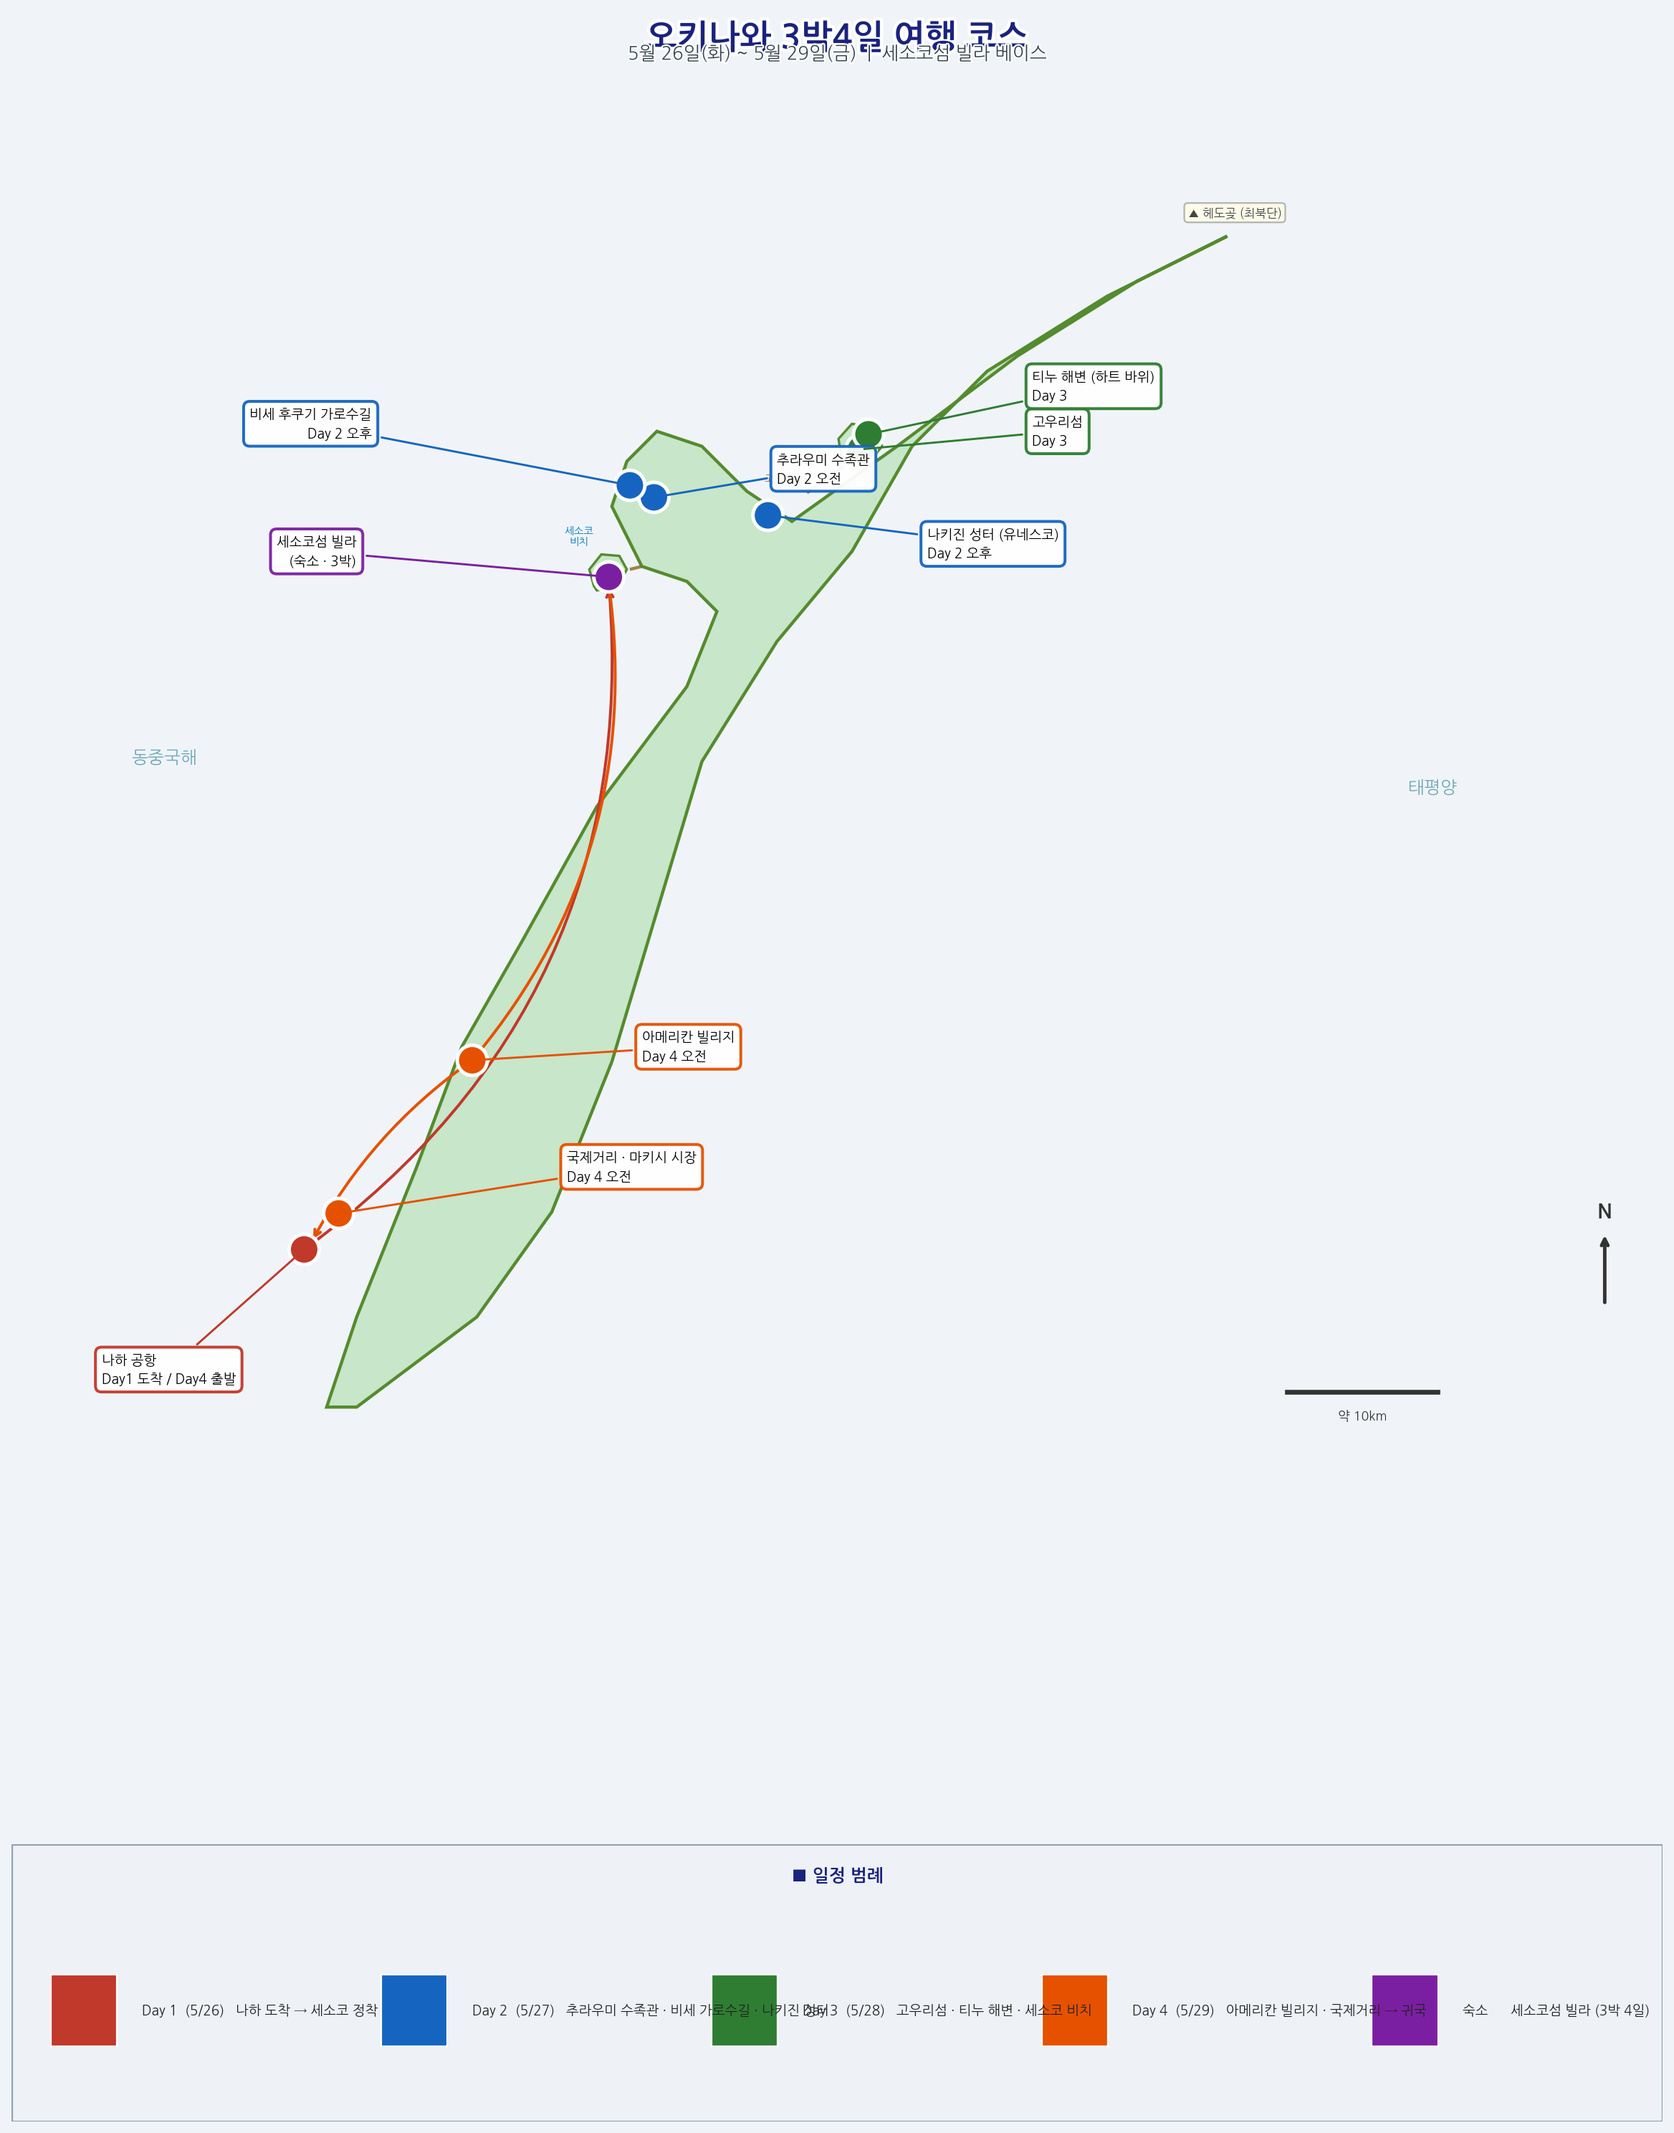
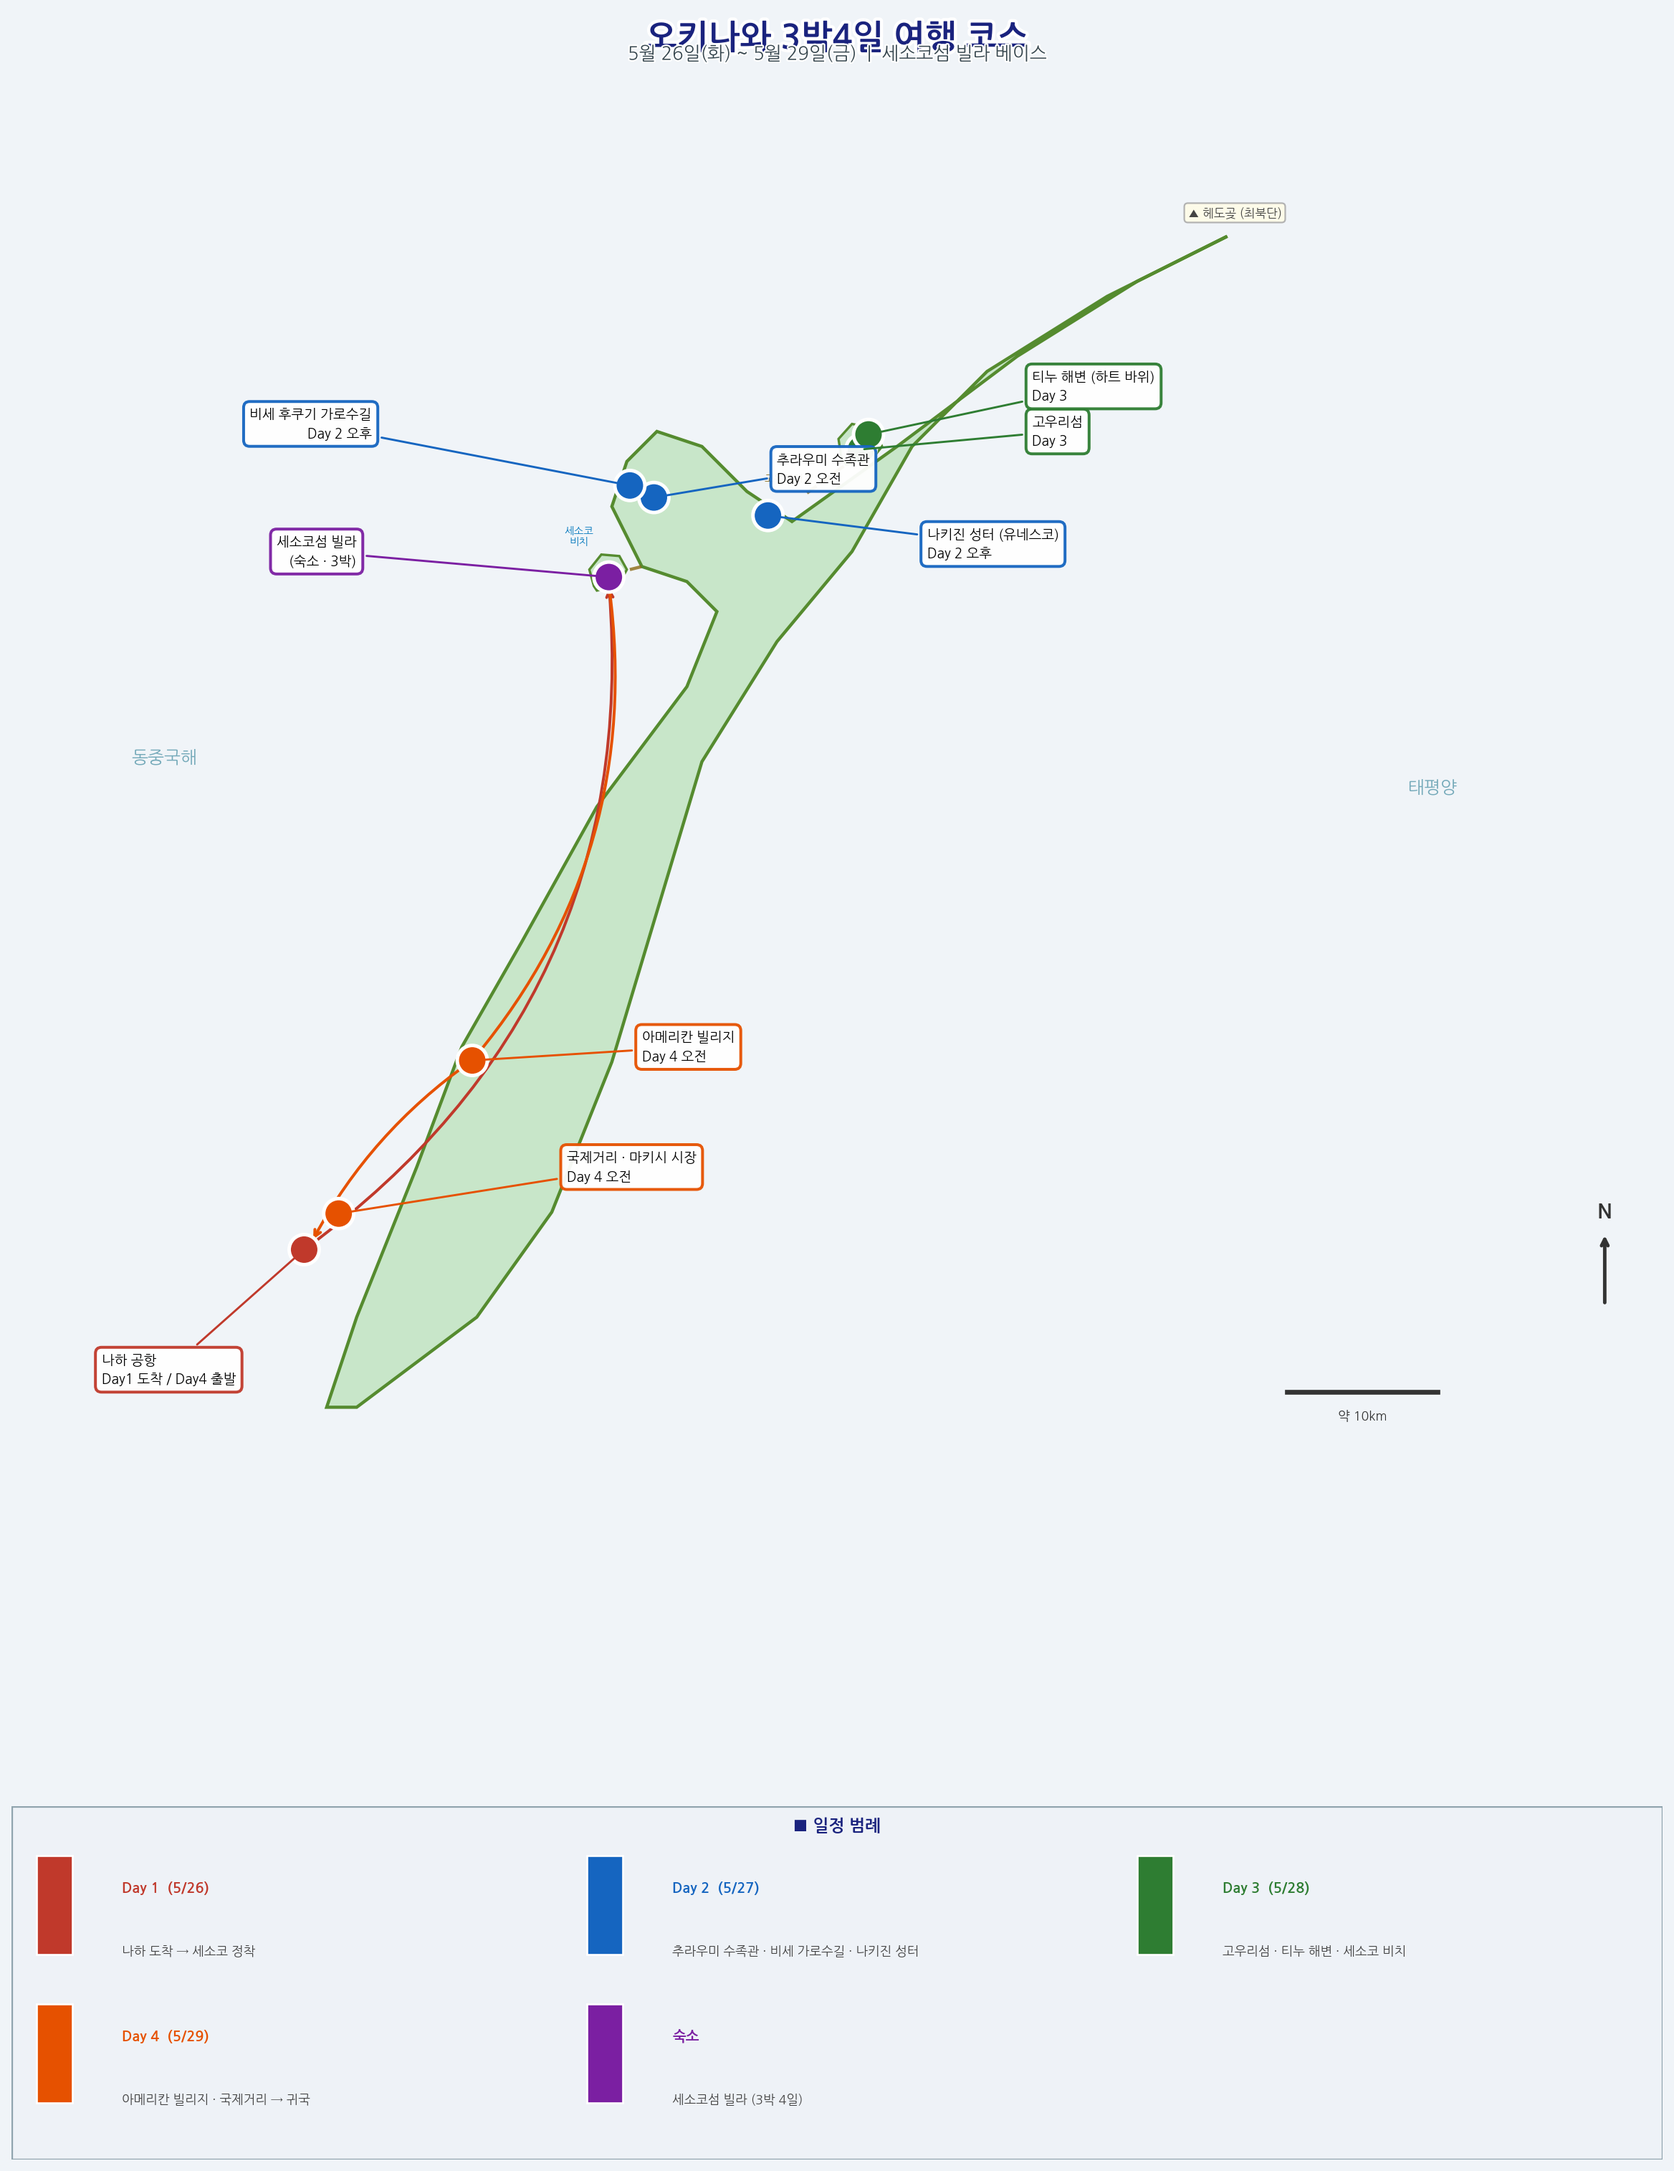
Fix legend overlap: redesign as 2-row 3-column grid layout
Replaces single-row legend with a proper grid so day labels and
descriptions no longer overlap the color swatches.

https://claude.ai/code/session_01CGhM5VQRCJYJkkRTWhuYUU

diff --git a/generate_map.py b/generate_map.py
@@ -18,15 +18,15 @@ fig = plt.figure(figsize=(15, 22))
 fig.patch.set_facecolor('#F0F4F8')
 
 # Map axes: leaves room for legend panel at bottom
-ax = fig.add_axes([0.02, 0.13, 0.96, 0.85])
+ax = fig.add_axes([0.02, 0.16, 0.96, 0.82])
 ax.set_facecolor('#A8D8EA')
 ax.set_xlim(127.45, 128.55)
 ax.set_ylim(26.04, 27.02)
 ax.set_aspect('equal')
 ax.axis('off')
 
-# Legend axes below map
-ax_leg = fig.add_axes([0.02, 0.01, 0.96, 0.11])
+# Legend axes below map (taller)
+ax_leg = fig.add_axes([0.02, 0.01, 0.96, 0.14])
 ax_leg.axis('off')
 ax_leg.set_facecolor('#EEF2F7')
 ax_leg.add_patch(plt.Rectangle((0, 0), 1, 1, transform=ax_leg.transAxes,
@@ -194,31 +194,55 @@ ax.text(0.965, 0.18, 'N', transform=ax.transAxes,
 ax.plot([128.30, 128.40], [26.100, 26.100], color='#333', lw=3, zorder=5)
 ax.text(128.35, 26.082, '약 10km', fontsize=8, ha='center', color='#333', zorder=5)
 
-# ── Legend panel (separate axes at bottom) ────────────────────────────────
+# ── Legend panel — 2행 3열 그리드 ────────────────────────────────────────
+# 행 1: Day1, Day2, Day3  /  행 2: Day4, 숙소
 legend_data = [
-    ('#C0392B', 'Day 1  (5/26)   나하 도착 → 세소코 정착'),
-    ('#1565C0', 'Day 2  (5/27)   추라우미 수족관 · 비세 가로수길 · 나키진 성터'),
-    ('#2E7D32', 'Day 3  (5/28)   고우리섬 · 티누 해변 · 세소코 비치'),
-    ('#E65100', 'Day 4  (5/29)   아메리칸 빌리지 · 국제거리 → 귀국'),
-    ('#7B1FA2', '숙소      세소코섬 빌라 (3박 4일)'),
+    ('#C0392B', 'Day 1  (5/26)', '나하 도착 → 세소코 정착'),
+    ('#1565C0', 'Day 2  (5/27)', '추라우미 수족관 · 비세 가로수길 · 나키진 성터'),
+    ('#2E7D32', 'Day 3  (5/28)', '고우리섬 · 티누 해변 · 세소코 비치'),
+    ('#E65100', 'Day 4  (5/29)', '아메리칸 빌리지 · 국제거리 → 귀국'),
+    ('#7B1FA2', '숙소',          '세소코섬 빌라 (3박 4일)'),
 ]
 
-ax_leg.text(0.50, 0.92, '■ 일정 범례',
-            transform=ax_leg.transAxes, fontsize=11, fontweight='bold',
+# 타이틀
+ax_leg.text(0.50, 0.97, '■ 일정 범례',
+            transform=ax_leg.transAxes, fontsize=10.5, fontweight='bold',
             ha='center', va='top', color='#1A237E')
 
-n = len(legend_data)
-col_w = 1.0 / n
-for i, (color, label) in enumerate(legend_data):
-    cx = col_w * i + col_w * 0.12
-    cy = 0.40
-    ax_leg.add_patch(plt.Rectangle((cx, cy - 0.13), 0.04, 0.26,
-                                    transform=ax_leg.transAxes,
-                                    facecolor=color, edgecolor='white',
-                                    linewidth=1, zorder=2))
-    ax_leg.text(cx + 0.055, cy, label,
+# 그리드: 3열 × 2행
+cols = 3
+rows = 2
+cell_w = 1.0 / cols
+cell_h = 0.42   # 전체 높이에서 각 행이 차지하는 비율
+
+rect_w  = 0.022   # 색상 박스 너비 (axes fraction)
+rect_h  = 0.28    # 색상 박스 높이
+pad_l   = 0.015   # 셀 왼쪽 여백
+txt_gap = 0.030   # 박스~텍스트 간격
+
+for i, (color, day_lbl, detail_lbl) in enumerate(legend_data):
+    col = i % cols
+    row = i // cols
+
+    x0 = col * cell_w + pad_l
+    y0 = 0.72 - row * cell_h   # 첫 행 y 중심
+
+    # 색상 박스
+    ax_leg.add_patch(plt.Rectangle(
+        (x0, y0 - rect_h / 2), rect_w, rect_h,
+        transform=ax_leg.transAxes,
+        facecolor=color, edgecolor='white', linewidth=1.2, zorder=2,
+    ))
+
+    # 굵은 날짜 라벨
+    ax_leg.text(x0 + rect_w + txt_gap, y0 + 0.05, day_lbl,
                 transform=ax_leg.transAxes,
-                fontsize=8.5, va='center', color='#222')
+                fontsize=9, fontweight='bold', va='center', color=color)
+
+    # 일반 설명
+    ax_leg.text(x0 + rect_w + txt_gap, y0 - 0.13, detail_lbl,
+                transform=ax_leg.transAxes,
+                fontsize=8, va='center', color='#444')
 
 fig.savefig('/home/user/mypage/okinawa_travel_map.png',
             dpi=160, bbox_inches='tight',
